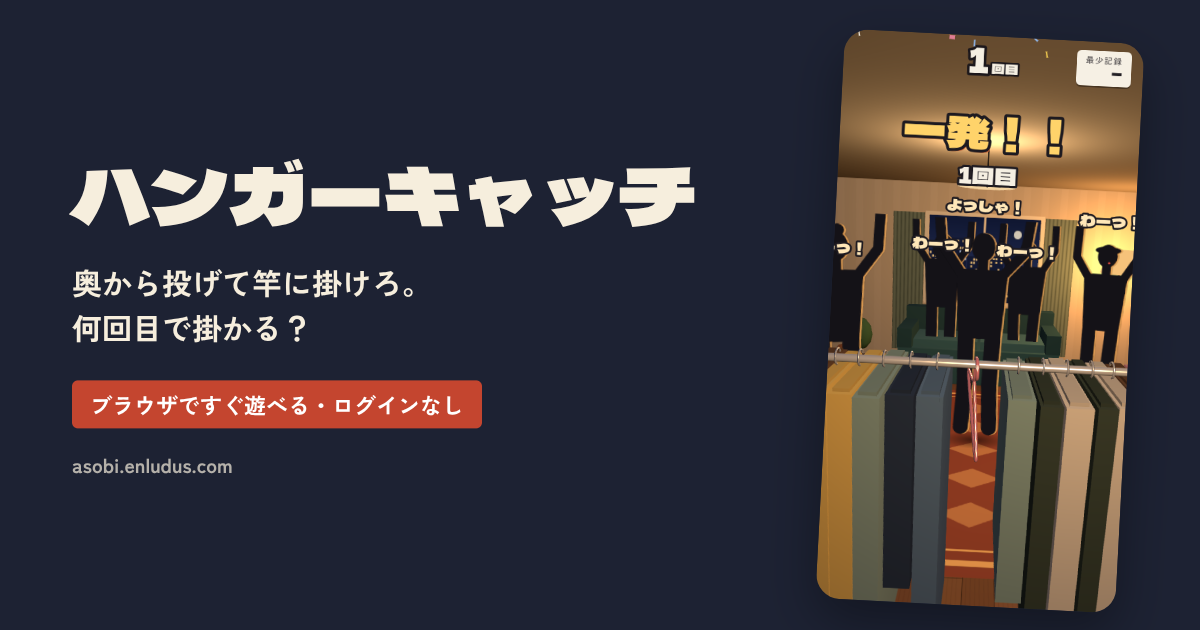
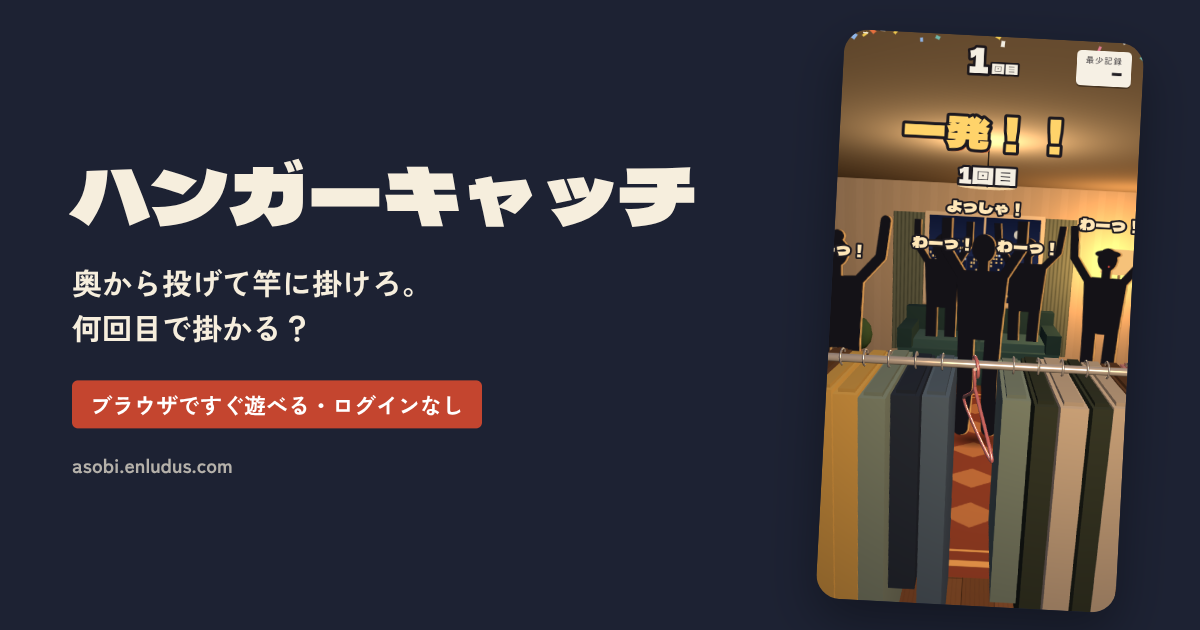
ハンガーキャッチ: ブレを押した位置で決まるようにして再現性を上げる
- 毎投ランダムだったブレを、押し始めた画面上の位置（縦横0〜1）から決まる固定のなめらかなパターンに変更
  同じ所を押して同じだけ引けば毎回同じ投げになる。近い所は近いブレ。キーボード投げは画面中央扱い
- 引く量あたりの角度・向きの効きを強める（角度 0〜36°→0〜48°、左右 ±0.25→±0.35 rad）
  決定的になったぶん、同じ引き方を指で正確に再現しないと入らない
- 検証用に simAt（押す位置つきシミュレーション）を追加

Claude-Session: https://claude.ai/code/session_01XxejftpEwYvPEH5cjxExUv

Changed region(s): [[0.6783, 0.5429, 0.9558, 0.9651], [0.6783, 0.3016, 0.9558, 0.4524], [0.7092, 0.0302, 0.74, 0.0603]]

diff --git a/games/catch/index.html b/games/catch/index.html
@@ -252,10 +252,16 @@ const DIST = Math.hypot(BAR.z - RELEASE.z, 0);
 // 投げ方: 強さと回転は毎回同じ。上下の角度と左右の向きはプレイヤーが引いて決める
 const SPIN = 0;                                   // rad/s（前回り）
 const V0 = 6.4;                                   // 初速 m/s（固定）
-const PITCH_MIN = 0, PITCH_MAX = 36;              // 下へ引いた量で決まる角度（度）
-const YAW_MAX = 0.25;                             // 左右いっぱいに引いたときの向き（rad）
+const PITCH_MIN = 0, PITCH_MAX = 48;              // 下へ引いた量で決まる角度（度）
+const YAW_MAX = 0.35;                             // 左右いっぱいに引いたときの向き（rad）
 // 人間らしいブレ（標準偏差）: 持ち手の傾き・回転の位相・わずかな速さと向き
 const JIT = { yaw: 0.016, v: 0.2, pitch: 0.016, tilt: 0.24, roll: 0.1, spin: 3.2 };
+// ブレは「押し始めた画面上の位置」だけで決まる（同じ所を押せば毎回同じブレ）。
+// 画面の縦横を0〜1にした座標の、なめらかな固定パターン。近い所は近いブレになる。
+function jitterAt(u, v) {
+  const f = (k) => Math.sin(6.1 * u + 2.3 * v + k * 1.7) * 0.6 + Math.sin(-3.7 * u + 7.9 * v + k * 2.9) * 0.5 + Math.sin(9.3 * u - 4.1 * v + k * 0.7) * 0.4;
+  return { yaw: f(1) * JIT.yaw, v: f(2) * JIT.v, pitch: f(3) * JIT.pitch, tilt: f(4) * JIT.tilt, roll: f(5) * JIT.roll, spin: f(6) * JIT.spin };
+}
 function jitterOf(r) { return { yaw: gauss(r) * JIT.yaw, v: gauss(r) * JIT.v, pitch: gauss(r) * JIT.pitch, tilt: gauss(r) * JIT.tilt, roll: gauss(r) * JIT.roll, spin: gauss(r) * JIT.spin }; }
 const NOJIT = { yaw: 0, v: 0, pitch: 0, tilt: 0, roll: 0, spin: 0 };
 
@@ -642,7 +648,7 @@ const DEG = Math.PI / 180;
 function aimNow() {
   if (drag) {
     const L = dragLen(), dx = drag.x - drag.x0, dy = drag.y - drag.y0;
-    return { pitch: lerp(PITCH_MIN, PITCH_MAX, clamp(dy / L, 0, 1)) * DEG, yaw: clamp(-dx / L, -1, 1) * YAW_MAX, weak: Math.hypot(dx, dy) < 10 };
+    return { pitch: lerp(PITCH_MIN, PITCH_MAX, clamp(dy / L, 0, 1)) * DEG, yaw: clamp(-dx / L, -1, 1) * YAW_MAX, weak: Math.hypot(dx, dy) < 10, u: clamp(drag.x0 / W, 0, 1), v: clamp(drag.y0 / H, 0, 1) };
   }
   if (kb) return { pitch: kb.pitch, yaw: kb.yaw };
   return null;
@@ -651,7 +657,7 @@ function newHangerRec(body, mesh) { return { body, mesh, blob: makeBlob(0.42, 0.
 function throwNow(a) {
   if (state !== 'play' || phase !== 'ready' || !a || a.weak) return false;
   n++; rec.throws++; save();
-  const j = jitterOf(rng);
+  const j = jitterAt(a.u ?? 0.5, a.v ?? 0.5);   // キーボードで投げたときは画面中央を押した扱い
   const body = spawnHanger(world, a, j);
   const mesh = new THREE.Mesh(hangerGeo, hangerMat(n)); scene.add(mesh);
   flying = newHangerRec(body, mesh); flying.n = n; flying.aim = a;
@@ -1159,6 +1165,7 @@ if (HASH.has('debug')) {
     rate(a, N = 100) { let h = 0; for (let i = 0; i < N; i++) if (simulate(a, jitterOf(Math.random)) === 'hang') h++; return h / N; },
     rateRandom(N = 300) { let h = 0; for (let i = 0; i < N; i++) { const a = { pitch: deg(rand(PITCH_MIN, PITCH_MAX)), yaw: rand(-YAW_MAX, YAW_MAX) }; if (simulate(a, jitterOf(Math.random)) === 'hang') h++; } return h / N; },
     throwWith: a => throwNow(a),
+    simAt: (a, u, v) => simulate(a, jitterAt(u, v)),
     setSeed: s => { seed = s >>> 0; },
     firstThrowWithSeed(s, a) { const keep = seed; seed = s >>> 0; const j = jitterOf(rng); seed = keep; return simulate(a, j); },
   };
